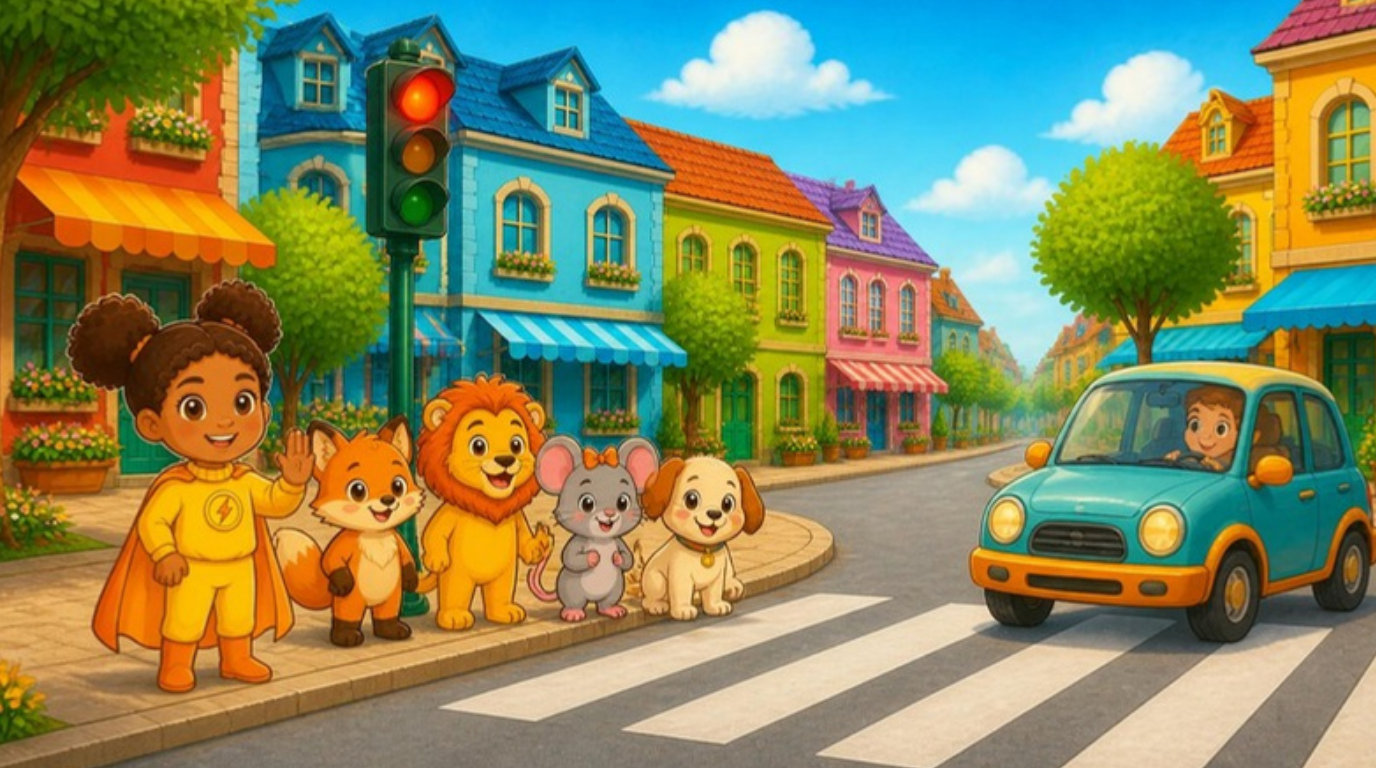
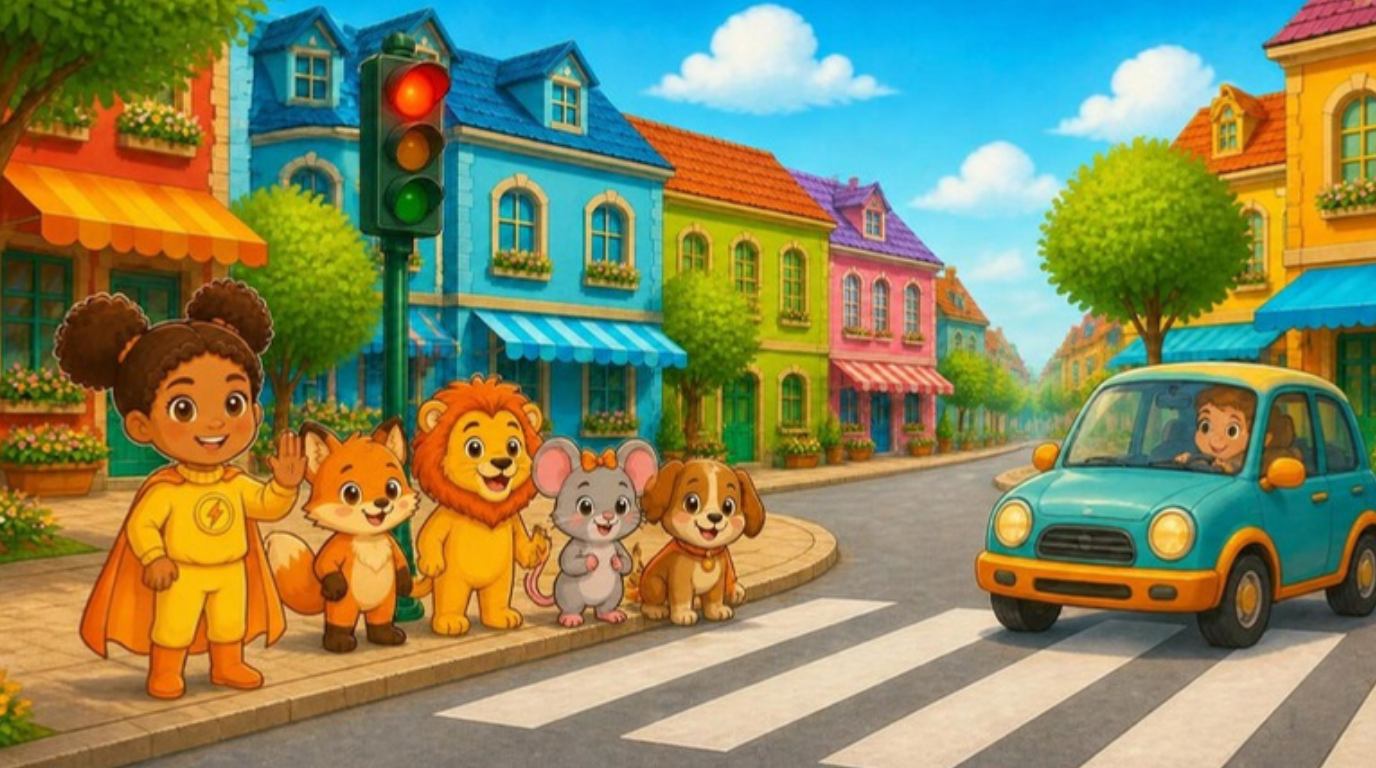
Hero City: story page 6 clearly red light + brown Biscuit; story-GIF scenario + preview animatic (waiting for the owner's OK) [preview]
Claude-Session: https://claude.ai/code/session_01Ef7PvgJjW5dJWNJhbcvK62

diff --git a/docs/scenarios/a1u7-captain-spark-gifs.md b/docs/scenarios/a1u7-captain-spark-gifs.md
@@ -1,0 +1,50 @@
+# Scenario: A1 Unit 7 story *Captain Spark Saves the Day*, seven Canva story GIFs
+
+**Status: waiting for the owner's OK.** Nothing has been drawn or exported yet.
+
+Owner, 2026-10-13: *"In A1 no need for story videos, just use GIF videos"*. Skill: `.claude/skills/kids-video-scenario`. The method is the same as the Jungle Rescue and Treasure Reef GIFs (`a1u2-jungle-rescue-gifs.md`, `a1u6-treasure-reef-gifs.md`).
+
+| | |
+|---|---|
+| **Where** | The Reader pages of *Captain Spark Saves the Day*: `SPARK_STORY` in `src/content/playground-library/hero-city/scenes.ts`. It is used in Unit 7 L1-L4 (in parts), L5 reads the whole book, and L7 has the read-aloud. |
+| **What** | Seven story pages move. Each becomes a flip-book loop of 2 frames, or 3 frames for the rescue. The frames are Canva edits of ONE story picture, exported from Canva as `gif`, re-timed with `scripts/retime-gif.py` and saved as an animated WebP that fills the page. The other five pages stay still. |
+| **ONE learning goal** | The child sees each hero's **can** (and Pip's **can't**) and the **rules** (*must wait / mustn't run*) happen while reading them, so the grammar is shown, not only said. |
+| **Target lines** | "She can fly fast!" · "Leo can run fast. Mia can climb well." · "Can Pip lift the box? No, he can't. But Leo can!" · "Biscuit can swim well. He can save the boat." · "Stop! You must wait. You mustn't run on the road." · "The friends wait. They are kind and safe." · "Mia can climb well. Leo and Pip help." |
+| **Rules** | Full scene, same framing as the existing page. No zoom, no pan, no camera move. Only the part the line names moves; nothing appears or vanishes. No on-picture text. Silent: the recorded Reader voice reads the line. Calm and child-safe: everyone stays on the pavement until the light is green; the kitten is never in danger. Characters stay as on the page, fully covered. Full colour, as on the page. |
+| **Cost** | Canva only. No paid clips. |
+
+## Beats
+- **HOOK:** p2, Captain Spark flies over Hero City ("She can fly fast!").
+- **MODEL (powers):** p3, Leo runs and Mia climbs; p4, Pip can't lift the box, but Leo can; p5, Biscuit swims and pushes the boat.
+- **RULES:** p6, red light, Spark's "stop" hand, the friends wait; p7, green light, they cross slowly.
+- **CHILD'S TURN:** in L5 the Reader stops after p10 ("The kitten is on the tower! Who can help?") for the choice page. The child answers, then:
+- **PAYOFF:** p11, Mia climbs the ladder and holds the kitten while Leo steadies it and Pip holds the blanket.
+
+## Shot list (one row = one GIF)
+
+| # | Page | Exact line (Reader) | ONE action (= the line) | Frames | Timing | Label |
+|---|---|---|---|---|---|---|
+| 1 | 2 | "This is Captain Spark. She can fly fast!" | Spark's cape streams and her arm reaches forward | A: current page 2 → B: cape higher, arm stretched further, speed lines brighter (she stays in the same place; no move across the sky) | 0.35 s per frame | none |
+| 2 | 3 | "Leo can run fast. Mia can climb well." | Leo's legs swap mid-run; Mia reaches up to the next hold | A: current page 3 → B: Leo's other leg forward, Mia's other hand up | 0.4 s per frame | none |
+| 3 | 4 | "Can Pip lift the box? No, he can't. But Leo can!" | Pip pulls and the box stays; Leo lifts his box up | A: current page 4 → B: Pip leaning back pulling (box unmoved), Leo's box a little higher | 0.6 s per frame | none |
+| 4 | 5 | "Biscuit can swim well. He can save the boat." | Biscuit paddles and the boat bobs toward the bank | A: current page 5 → B: paws in the other position, a small splash, boat tilted | 0.45 s per frame | none |
+| 5 | 6 | "Stop! You must wait. You mustn't run on the road." | The red light glows; Spark's hand is up; the friends stand still | A: current page 6 → B: red light brighter, Spark's palm slightly forward | 0.6 s per frame | none |
+| 6 | 7 | "The friends wait. They are kind and safe." | The friends step across the zebra crossing on green | A: current page 7 → B: the other foot forward for each friend (they stay in the same place on the crossing) | 0.5 s per frame | none |
+| 7 | 11 | "Mia can climb well. Leo and Pip help." | Mia lifts the kitten from the ledge; Leo holds the ladder; Pip holds the blanket | A: Mia on the ladder reaching → B: Mia's hand at the kitten → C: Mia holding the kitten safely | 0.7 s per frame, hold C 1.5 s, loop | none |
+
+Pages that stay still: 1, 8, 9, 10, 12. Their lines are about the weather, talking ("What's the matter?" / "Can I help you?") or a cheer; the talk is the teaching point there, not an action.
+
+## Pictures needed
+- Frame A of each GIF is the existing story page (`/lep1/scenes/bg-a1u7-story-N-wide.png`). For p11, frame A needs its own edit (Mia's hand still reaching).
+- **New:** 7 frame-B pictures, plus frames A and C for p11 (9 in all). They are Canva edits of the story page (holder design DAHYRv-e1QQ, story pages are its pages 1-12), overlay-checked so only the named part changes.
+- Export: one Canva design per GIF → `export-design gif` → `scripts/retime-gif.py` → animated WebP → `public/lep1/gifs/spark-N.webp`.
+
+## In the lesson (only after the owner's OK)
+- `SPARK_STORY[n].img` points to the WebP for these 7 pages. The Reader plays it, and the still PNG stays as the poster and the fallback.
+- Read-and-match, true/false, story-order and jigsaw pages keep the still pictures.
+
+## Preview (animatic)
+`docs/scenarios/a1u7-captain-spark-preview.gif` shows the 12 pages in book order, each held for its reading time. A corner label marks the seven pages that will move ("GIF 1"…"GIF 7") and gives the action. This preview uses the existing still pictures only; the new frames are made after the OK.
+
+## Approval
+- Owner: _waiting_
